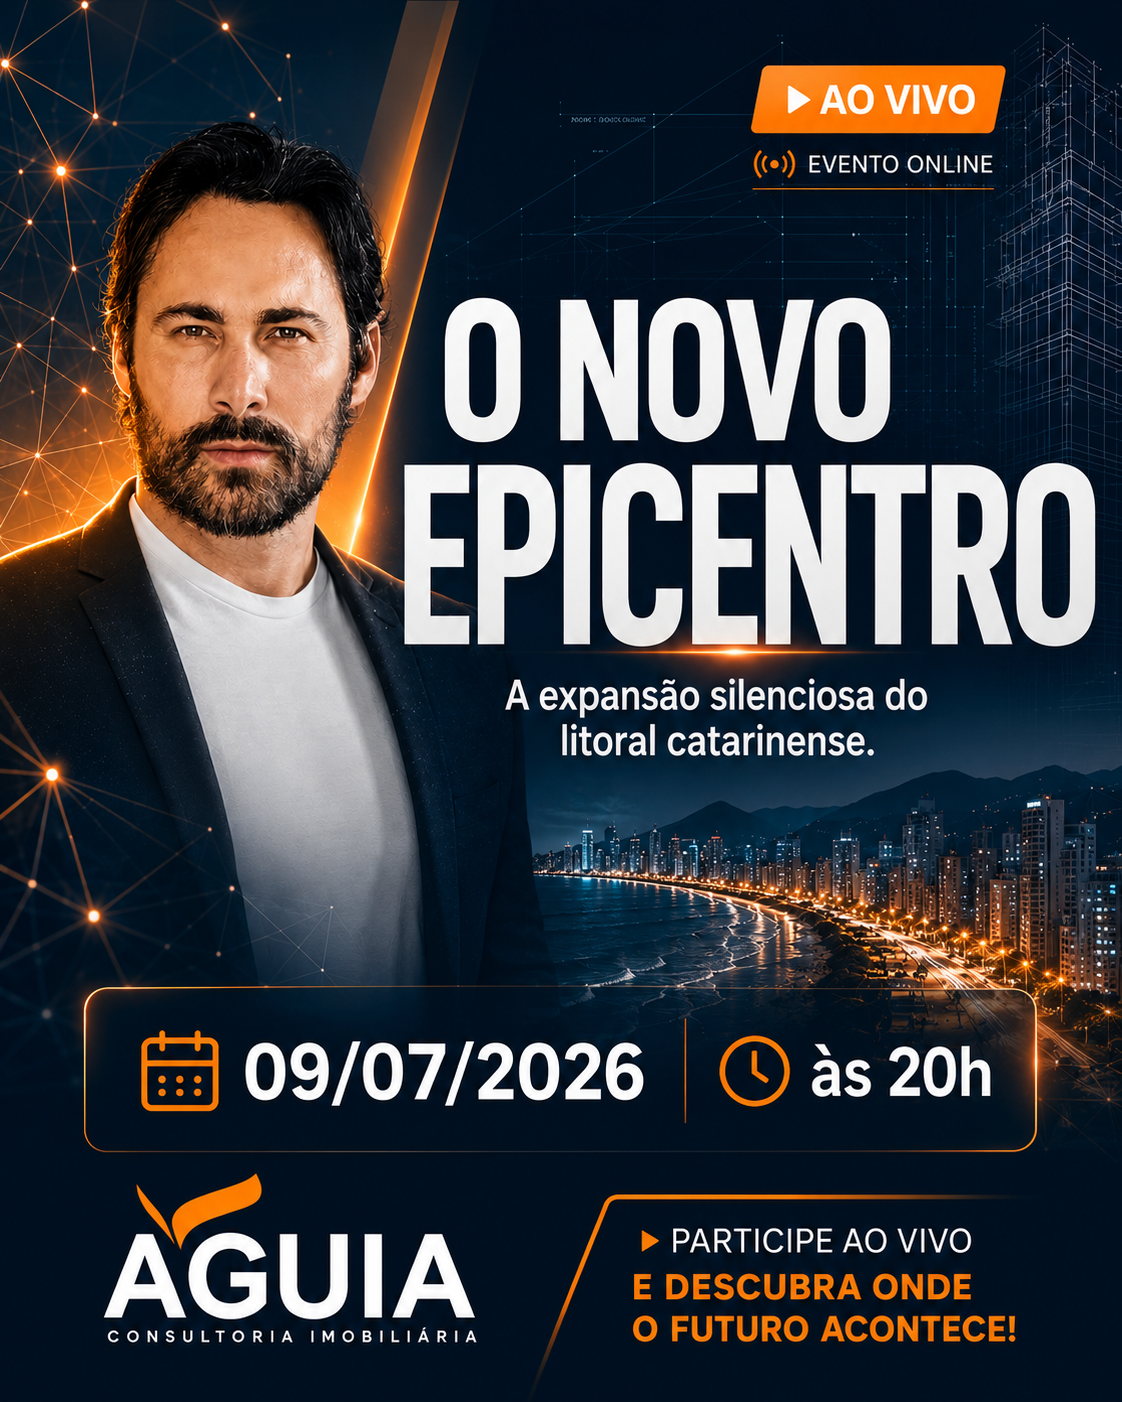
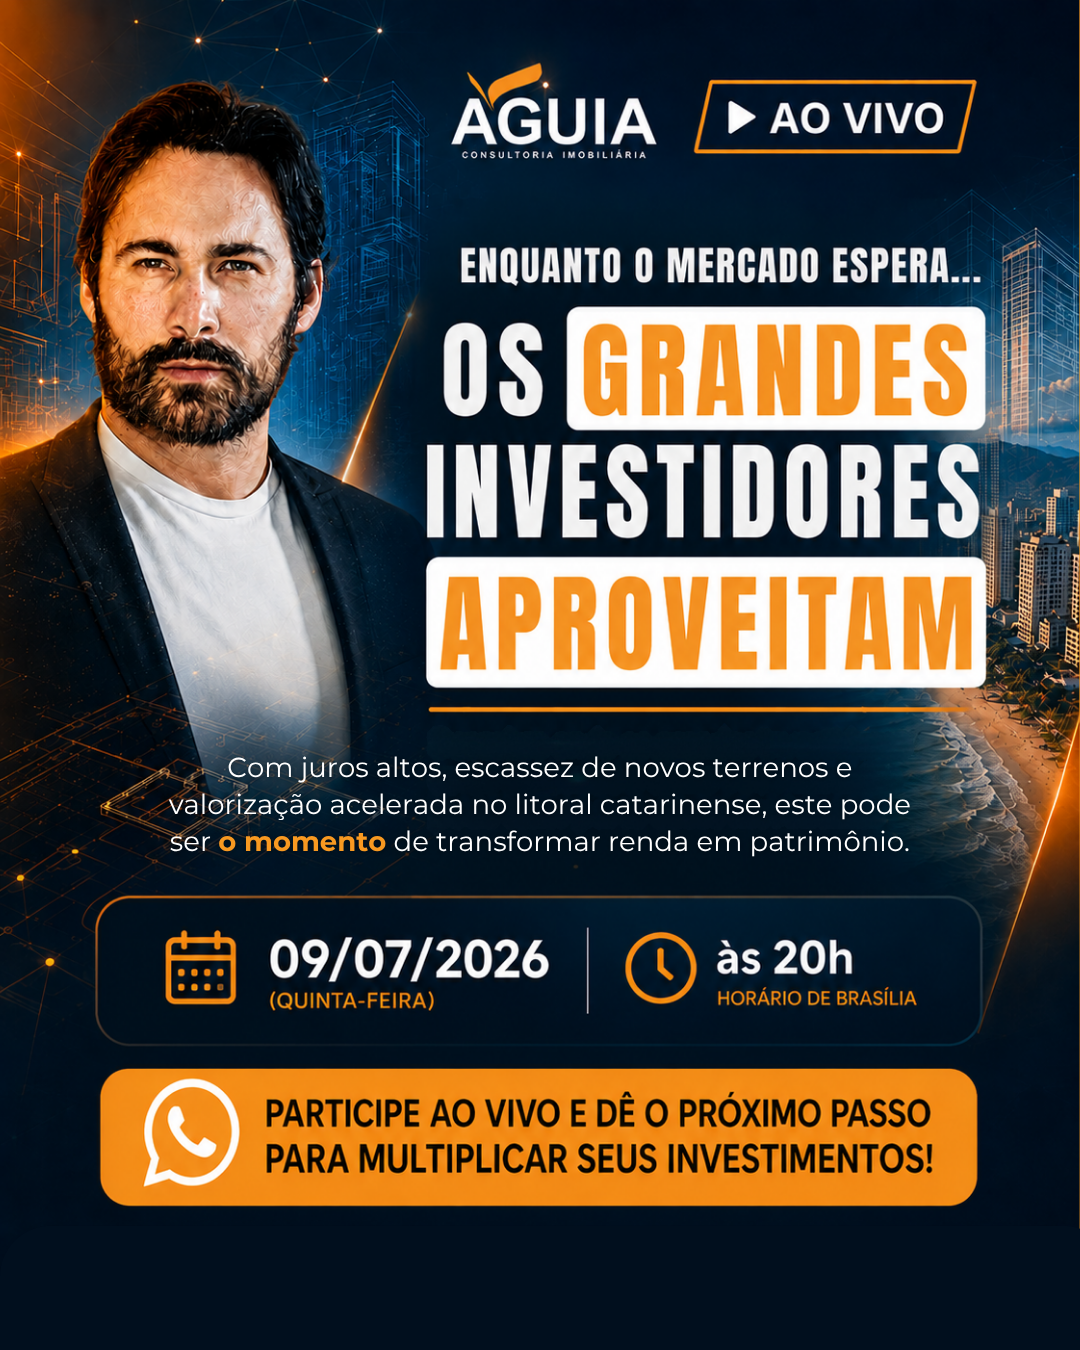
agoravai22222

diff --git a/live-aguia/app/page.js b/live-aguia/app/page.js
@@ -142,7 +142,8 @@ export default function Home() {
   <main className="bg-black text-white">
     <Hero />
 
-    <section className="bg-gradient-to-b from-black to-[#ffbc6b] px-6 pb-0 pt-10 text-white">
+    <section className="bg-gradient-to-b from-[#010f1e] to-black px-6 pt-10 pb-0 text-white">
+    
       <div className="mx-auto max-w-4xl text-center">
         <Contador tempo={tempo} />
 
@@ -154,7 +155,7 @@ export default function Home() {
         />
       </div>
       <SobreEvento />
-      
+
       <Footer />
     </section>
   </main>

diff --git a/live-aguia/app/globals.css b/live-aguia/app/globals.css
@@ -14,7 +14,7 @@
 
 @media (prefers-color-scheme: dark) {
   :root {
-    --background: #000000;
+    --background: #010f1e;
     --foreground: #ffffff;
   }
 }
